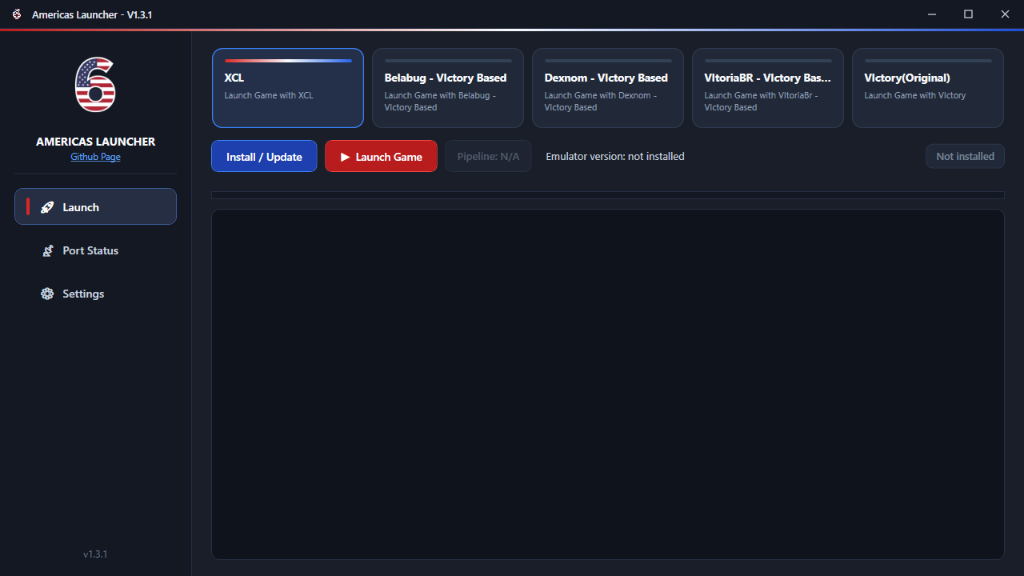
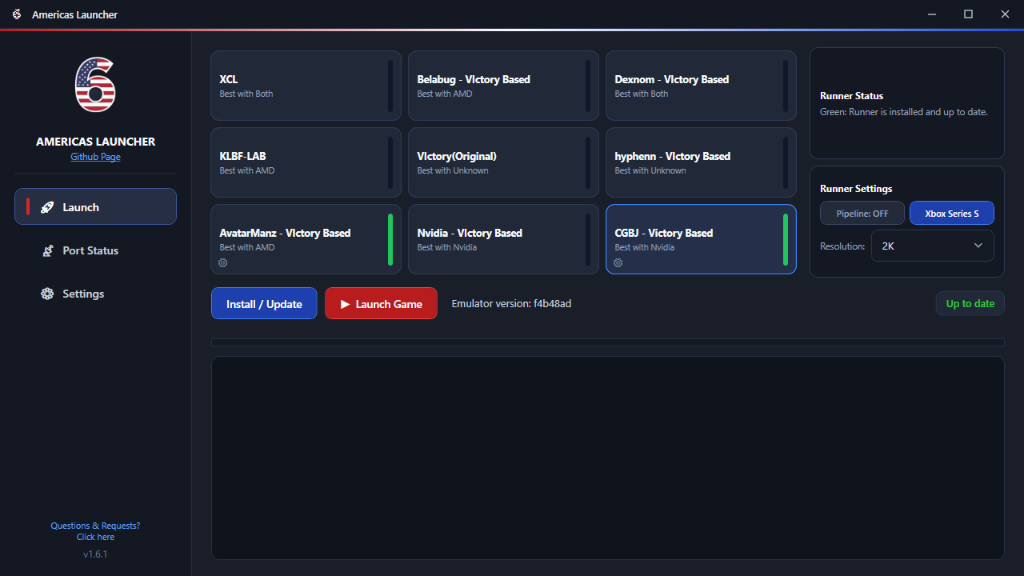
Update launch-view screenshot, 9-runner list, and add 8 language READMEs

diff --git a/README.hi.md b/README.hi.md
@@ -1,0 +1,43 @@
+[English](README.md) | [Türkçe](README.tr.md) | [Русский](README.ru.md) | [中文](README.zh.md) | [Español](README.es.md) | [Italiano](README.it.md) | [Polski](README.pl.md) | [Português (BR)](README.pt-BR.md) | **हिन्दी**
+
+# Americas Launcher
+
+एक आधुनिक Windows लॉन्चर जो Windows पर Xbox Series X|S (GDK) कम्पैटिबिलिटी लेयर्स को अपने आप सेटअप, अपडेट, बिल्ड और लॉन्च करता है — लाइव पोर्ट प्रोग्रेस ट्रैकिंग के साथ।
+
+> यह प्रोजेक्ट **केवल उन गेम्स के लिए है जिनके आप कानूनी मालिक हैं**, जो आपके अपने PC पर निकाले गए हैं। Americas Launcher कोई भी गेम, कीज़ या कंसोल SDK फ़ाइलें **शामिल, डाउनलोड या वितरित नहीं** करता है।
+
+![Americas Launcher - Launch View](docs/images/launch-view.png)
+
+## मुख्य विशेषताएँ
+
+- **आधुनिक 720p UI:** 9 चयन करने योग्य रनर कार्ड के साथ डार्क इंटरफ़ेस।
+- **एक-क्लिक इंस्टॉल / अपडेट:** `winget` (Git, Visual Studio C++ Build Tools, Rust) के ज़रिए निर्भरताएँ जाँचता और इंस्टॉल करता है, और रनर को लोकली बिल्ड करता है।
+- **एकीकृत कंसोल आउटपुट:** रनर आउटपुट और शेडर/पाइपलाइन संकलन लॉग सीधे लॉन्चर में दिखते हैं।
+- **Stop Game:** लॉन्च बटन **Stop Game** में बदल जाता है ताकि आप कभी भी गेम या संकलन रोक सकें।
+- **प्रति-रनर सेटिंग्स:** प्रत्येक रनर के लिए अलग **Pipeline**, **Xbox Series X/S**, और **रिज़ॉल्यूशन** (`540p`, `720p`, `1080p`, `2K`, `4K`) विकल्प।
+- **लाइव पोर्ट स्थिति:** [Portwatch VI](https://portwatch-vi.xyz/) द्वारा लाइव प्रोग्रेस ट्रैकिंग।
+
+## समर्थित रनर
+
+| रनर | आधारित | किसके लिए बेहतर | रिपॉजिटरी |
+|---|---|---|---|
+| **XCL** | स्वतंत्र Xbox Series कम्पैटिबिलिटी लेयर | Both | [xcl-dev/xcl](https://github.com/xcl-dev/xcl) |
+| **Belabug - VIctory Based** | VIctory फ़ॉर्क | AMD | [Belobug/VIctory-Belobug-AMD](https://github.com/Belobug/VIctory-Belobug-AMD) |
+| **Dexnom - VIctory Based** | VIctory फ़ॉर्क | Both | [DexNom/VIctory](https://github.com/DexNom/VIctory) |
+| **KLBF-LAB** | VIctory फ़ॉर्क | AMD | [PastiiJay/klbf-lab](https://github.com/PastiiJay/klbf-lab) |
+| **VIctory(Original)** | मूल VIctory कम्पैटिबिलिटी लेयर | Unknown | [Marvisak/VIctory](https://github.com/Marvisak/VIctory) |
+| **hyphenn - VIctory Based** | VIctory फ़ॉर्क | Unknown | [fxceless/victory-fork](https://github.com/fxceless/victory-fork) |
+| **AvatarManz - VIctory Based** | VIctory फ़ॉर्क | AMD | [avatarmanz/VIctory-7900XTX](https://github.com/avatarmanz/VIctory-7900XTX) |
+| **Nvidia - VIctory Based** | VIctory फ़ॉर्क (AvatarManz पर आधारित) | Nvidia | [trustno1-coder/VIctory-NVIDIA](https://github.com/trustno1-coder/VIctory-NVIDIA) |
+| **CGBJ - Victory Based** | VIctory फ़ॉर्क | Nvidia | [DoubleGhosty/cool_fox](https://github.com/DoubleGhosty/cool_fox) |
+
+## उपयोग
+
+1. **Settings** खोलें और **Game Folder** तथा **Game Executable** (`Game.exe`) चुनें।
+2. **Launch** टैब पर जाएँ और अपना रनर चुनें।
+3. निर्भरताएँ इंस्टॉल करने और बिल्ड करने के लिए **Install / Update** पर क्लिक करें।
+4. **Launch Game** पर क्लिक करें।
+
+## लाइसेंस
+
+[GNU GPL v2](LICENSE) (`GPL-2.0-only`).

diff --git a/README.ru.md b/README.ru.md
@@ -1,0 +1,43 @@
+[English](README.md) | [Türkçe](README.tr.md) | **Русский** | [中文](README.zh.md) | [Español](README.es.md) | [Italiano](README.it.md) | [Polski](README.pl.md) | [Português (BR)](README.pt-BR.md) | [हिन्दी](README.hi.md)
+
+# Americas Launcher
+
+Современный лаунчер для Windows, который автоматически устанавливает, обновляет, собирает и запускает слои совместимости Xbox Series X|S (GDK) на Windows — со встроенным отслеживанием прогресса порта в реальном времени.
+
+> Этот проект предназначен **только для игр, которыми вы владеете на законных основаниях**, распакованных на вашем ПК. Americas Launcher **не** включает, не скачивает и не распространяет игры, ключи или файлы SDK консоли.
+
+![Americas Launcher - Launch View](docs/images/launch-view.png)
+
+## Возможности
+
+- **Современный интерфейс 720p:** Тёмный интерфейс с 9 выбираемыми карточками раннеров.
+- **Установка и обновление в один клик:** Автоматическая проверка зависимостей через `winget` (Git, Visual Studio C++ Build Tools, Rust), клонирование и локальная сборка раннеров.
+- **Встроенная консоль:** Вывод раннера и логи компиляции шейдеров/пайплайнов отображаются прямо в окне лаунчера.
+- **Stop Game:** Кнопка запуска превращается в **Stop Game**, позволяя остановить игру или процесс компиляции в любой момент.
+- **Настройки раннера:** Отдельные настройки **Pipeline**, **Xbox Series X/S** и **Разрешения** (`540p`, `720p`, `1080p`, `2K`, `4K`) для каждого раннера.
+- **Статус порта:** Отслеживание прогресса в реальном времени через [Portwatch VI](https://portwatch-vi.xyz/).
+
+## Поддерживаемые раннеры
+
+| Раннер | Основа | Лучше для | Репозиторий |
+|---|---|---|---|
+| **XCL** | Независимый слой совместимости Xbox Series | Both | [xcl-dev/xcl](https://github.com/xcl-dev/xcl) |
+| **Belabug - VIctory Based** | Форк VIctory | AMD | [Belobug/VIctory-Belobug-AMD](https://github.com/Belobug/VIctory-Belobug-AMD) |
+| **Dexnom - VIctory Based** | Форк VIctory | Both | [DexNom/VIctory](https://github.com/DexNom/VIctory) |
+| **KLBF-LAB** | Форк VIctory | AMD | [PastiiJay/klbf-lab](https://github.com/PastiiJay/klbf-lab) |
+| **VIctory(Original)** | Оригинальный слой совместимости VIctory | Unknown | [Marvisak/VIctory](https://github.com/Marvisak/VIctory) |
+| **hyphenn - VIctory Based** | Форк VIctory | Unknown | [fxceless/victory-fork](https://github.com/fxceless/victory-fork) |
+| **AvatarManz - VIctory Based** | Форк VIctory | AMD | [avatarmanz/VIctory-7900XTX](https://github.com/avatarmanz/VIctory-7900XTX) |
+| **Nvidia - VIctory Based** | Форк VIctory (на базе AvatarManz) | Nvidia | [trustno1-coder/VIctory-NVIDIA](https://github.com/trustno1-coder/VIctory-NVIDIA) |
+| **CGBJ - Victory Based** | Форк VIctory | Nvidia | [DoubleGhosty/cool_fox](https://github.com/DoubleGhosty/cool_fox) |
+
+## Использование
+
+1. Откройте **Settings** и выберите **Game Folder** и **Game Executable** (`Game.exe`).
+2. Перейдите во вкладку **Launch** и выберите нужный раннер.
+3. Нажмите **Install / Update** для установки зависимостей и сборки.
+4. Нажмите **Launch Game**.
+
+## Лицензия
+
+[GNU GPL v2](LICENSE) (`GPL-2.0-only`).

diff --git a/README.tr.md b/README.tr.md
@@ -1,0 +1,45 @@
+[English](README.md) | **Türkçe** | [Русский](README.ru.md) | [中文](README.zh.md) | [Español](README.es.md) | [Italiano](README.it.md) | [Polski](README.pl.md) | [Português (BR)](README.pt-BR.md) | [हिन्दी](README.hi.md)
+
+# Americas Launcher
+
+Windows üzerinde Xbox Series X|S (GDK) uyumluluk katmanlarını otomatik olarak kuran, güncelleyen, derleyen ve başlatan modern bir Windows başlatıcısıdır — dahili canlı port ilerleme takibi içerir.
+
+> Bu proje **yalnızca yasal olarak sahip olduğunuz**, kendi PC'nize çıkarılmış oyunlar içindir. Americas Launcher oyun, anahtar veya konsol SDK dosyalarını **içermez, indirmez veya dağıtmaz**.
+
+![Americas Launcher - Launch View](docs/images/launch-view.png)
+
+## Özellikler
+
+- **Modern 720p Arayüz:** Özel pencere kontrollerine ve 9 seçilebilir runner kartına sahip koyu lacivert & patriot temalı arayüz.
+- **Tek Tıkla Kurulum / Güncelleme:**
+  - Eksik bağımlılıkları `winget` üzerinden otomatik kontrol edip kurar (Git, Visual Studio C++ Build Tools, Rust).
+  - Her runner'ın kaynak reposunu `git` ile klonlar, günceller ve yerel olarak derler.
+- **Entegre Konsol Çıktısı:** Runner çıktıları ve ön-başlatma shader/pipeline derleme logları doğrudan launcher içindeki log kutusuna akar.
+- **Stop Game:** Başlat butonuna bastıktan sonra buton **Stop Game**'e dönüşür; pipeline derlemesi sırasında bile tıklayarak işlemi ve arka plandaki runner sürecini durdurabilirsiniz.
+- **Runner Ayarları:** Her runner için ayrı **Pipeline**, **Xbox Series X/S** ve **Çözünürlük** (`540p`, `720p`, `1080p`, `2K`, `4K`) ayarları.
+- **Canlı Port Durumu:** [Portwatch VI](https://portwatch-vi.xyz/) üzerinden canlı ilerleme takibi.
+
+## Desteklenen Runnerlar
+
+| Runner | Taban | En İyi GPU | Repo |
+|---|---|---|---|
+| **XCL** | Bağımsız Xbox Series uyumluluk katmanı | Both | [xcl-dev/xcl](https://github.com/xcl-dev/xcl) |
+| **Belabug - VIctory Based** | VIctory fork | AMD | [Belobug/VIctory-Belobug-AMD](https://github.com/Belobug/VIctory-Belobug-AMD) |
+| **Dexnom - VIctory Based** | VIctory fork | Both | [DexNom/VIctory](https://github.com/DexNom/VIctory) |
+| **KLBF-LAB** | VIctory fork | AMD | [PastiiJay/klbf-lab](https://github.com/PastiiJay/klbf-lab) |
+| **VIctory(Original)** | Orijinal VIctory uyumluluk katmanı | Unknown | [Marvisak/VIctory](https://github.com/Marvisak/VIctory) |
+| **hyphenn - VIctory Based** | VIctory fork | Unknown | [fxceless/victory-fork](https://github.com/fxceless/victory-fork) |
+| **AvatarManz - VIctory Based** | VIctory fork | AMD | [avatarmanz/VIctory-7900XTX](https://github.com/avatarmanz/VIctory-7900XTX) |
+| **Nvidia - VIctory Based** | VIctory fork (AvatarManz tabanlı) | Nvidia | [trustno1-coder/VIctory-NVIDIA](https://github.com/trustno1-coder/VIctory-NVIDIA) |
+| **CGBJ - Victory Based** | VIctory fork | Nvidia | [DoubleGhosty/cool_fox](https://github.com/DoubleGhosty/cool_fox) |
+
+## Kullanım
+
+1. Sol menüden **Settings**'i açın ve **Game Folder** ile **Game Executable** (`Game.exe`) yollarını seçin.
+2. **Launch** sekmesine gidin ve kullanmak istediğiniz runner kartına tıklayın.
+3. Bağımlılıkları kurmak ve runner'ı derlemek için **Install / Update** butonuna tıklayın.
+4. **Launch Game** butonuna tıklayın. *(İlk kez shader/pipeline derlemesi birkaç dakika sürebilir.)*
+
+## Lisans
+
+[GNU GPL v2](LICENSE) (`GPL-2.0-only`).

diff --git a/README.pl.md b/README.pl.md
@@ -1,0 +1,43 @@
+[English](README.md) | [Türkçe](README.tr.md) | [Русский](README.ru.md) | [中文](README.zh.md) | [Español](README.es.md) | [Italiano](README.it.md) | **Polski** | [Português (BR)](README.pt-BR.md) | [हिन्दी](README.hi.md)
+
+# Americas Launcher
+
+Nowoczesny launcher dla systemu Windows, który automatycznie konfiguruje, aktualizuje, kompiluje i uruchamia warstwy zgodności Xbox Series X|S (GDK) na Windowsie — z wbudowanym śledzeniem postępu portu na żywo.
+
+> Ten projekt jest przeznaczony **wyłącznie do gier, które legalnie posiadasz**, rozpakowanych na własnym komputerze. Americas Launcher **nie** zawiera, nie pobiera ani nie rozpowszechnia gier, kluczy ani plików SDK konsoli.
+
+![Americas Launcher - Launch View](docs/images/launch-view.png)
+
+## Funkcje
+
+- **Nowoczesny interfejs 720p:** Ciemny interfejs z 9 kartami runnerów do wyboru.
+- **Instalacja / Aktualizacja jednym kliknięciem:** Automatyczne sprawdzanie i instalacja brakujących zależności przez `winget` (Git, Visual Studio C++ Build Tools, Rust) oraz lokalna kompilacja runnerów.
+- **Zintegrowana konsola:** Wyjście runnera i logi kompilacji shaderów/pipeline są wyświetlane bezpośrednio w oknie launchera.
+- **Stop Game:** Przycisk uruchamiania zmienia się w **Stop Game**, pozwalając zatrzymać grę lub kompilację w dowolnym momencie.
+- **Ustawienia runnera:** Osobne opcje **Pipeline**, **Xbox Series X/S** oraz **Rozdzielczości** (`540p`, `720p`, `1080p`, `2K`, `4K`) dla każdego runnera.
+- **Status portu na żywo:** Śledzenie postępu przez [Portwatch VI](https://portwatch-vi.xyz/).
+
+## Obsługiwane runnery
+
+| Runner | Baza | Najlepszy dla | Repozytorium |
+|---|---|---|---|
+| **XCL** | Niezależna warstwa zgodności Xbox Series | Both | [xcl-dev/xcl](https://github.com/xcl-dev/xcl) |
+| **Belabug - VIctory Based** | Fork VIctory | AMD | [Belobug/VIctory-Belobug-AMD](https://github.com/Belobug/VIctory-Belobug-AMD) |
+| **Dexnom - VIctory Based** | Fork VIctory | Both | [DexNom/VIctory](https://github.com/DexNom/VIctory) |
+| **KLBF-LAB** | Fork VIctory | AMD | [PastiiJay/klbf-lab](https://github.com/PastiiJay/klbf-lab) |
+| **VIctory(Original)** | Oryginalna warstwa zgodności VIctory | Unknown | [Marvisak/VIctory](https://github.com/Marvisak/VIctory) |
+| **hyphenn - VIctory Based** | Fork VIctory | Unknown | [fxceless/victory-fork](https://github.com/fxceless/victory-fork) |
+| **AvatarManz - VIctory Based** | Fork VIctory | AMD | [avatarmanz/VIctory-7900XTX](https://github.com/avatarmanz/VIctory-7900XTX) |
+| **Nvidia - VIctory Based** | Fork VIctory (oparty na AvatarManz) | Nvidia | [trustno1-coder/VIctory-NVIDIA](https://github.com/trustno1-coder/VIctory-NVIDIA) |
+| **CGBJ - Victory Based** | Fork VIctory | Nvidia | [DoubleGhosty/cool_fox](https://github.com/DoubleGhosty/cool_fox) |
+
+## Użycie
+
+1. Otwórz **Settings** i wybierz **Game Folder** oraz **Game Executable** (`Game.exe`).
+2. Przejdź do **Launch** i wybierz kartę runnera.
+3. Kliknij **Install / Update**, aby zainstalować zależności i skompilować runnera.
+4. Kliknij **Launch Game**.
+
+## Licencja
+
+[GNU GPL v2](LICENSE) (`GPL-2.0-only`).

diff --git a/README.es.md b/README.es.md
@@ -1,0 +1,43 @@
+[English](README.md) | [Türkçe](README.tr.md) | [Русский](README.ru.md) | [中文](README.zh.md) | **Español** | [Italiano](README.it.md) | [Polski](README.pl.md) | [Português (BR)](README.pt-BR.md) | [हिन्दी](README.hi.md)
+
+# Americas Launcher
+
+Un lanzador moderno para Windows que configura, actualiza, compila y ejecuta automáticamente capas de compatibilidad de Xbox Series X|S (GDK) en Windows, con seguimiento en vivo del progreso del port.
+
+> Este proyecto está destinado **únicamente a juegos que poseas legalmente**, descomprimidos en tu propia PC. Americas Launcher **no** incluye, descarga ni distribuye juegos, claves ni archivos SDK de consola.
+
+![Americas Launcher - Launch View](docs/images/launch-view.png)
+
+## Características
+
+- **Interfaz moderna 720p:** Interfaz oscura con 9 tarjetas de runners seleccionables.
+- **Instalación / Actualización en un clic:** Verifica e instala dependencias faltantes con `winget` (Git, Visual Studio C++ Build Tools, Rust), clona y compila localmente cada runner.
+- **Consola integrada:** La salida del runner y los registros de compilación de shaders/pipelines se muestran directamente en el lanzador.
+- **Stop Game:** El botón de inicio cambia a **Stop Game** para detener el juego o la compilación en cualquier momento.
+- **Ajustes por runner:** Opciones individuales de **Pipeline**, **Xbox Series X/S** y **Resolución** (`540p`, `720p`, `1080p`, `2K`, `4K`).
+- **Estado del port en vivo:** Seguimiento en tiempo real con [Portwatch VI](https://portwatch-vi.xyz/).
+
+## Runners compatibles
+
+| Runner | Basado en | Mejor con | Repositorio |
+|---|---|---|---|
+| **XCL** | Capa de compatibilidad independiente Xbox Series | Both | [xcl-dev/xcl](https://github.com/xcl-dev/xcl) |
+| **Belabug - VIctory Based** | Fork de VIctory | AMD | [Belobug/VIctory-Belobug-AMD](https://github.com/Belobug/VIctory-Belobug-AMD) |
+| **Dexnom - VIctory Based** | Fork de VIctory | Both | [DexNom/VIctory](https://github.com/DexNom/VIctory) |
+| **KLBF-LAB** | Fork de VIctory | AMD | [PastiiJay/klbf-lab](https://github.com/PastiiJay/klbf-lab) |
+| **VIctory(Original)** | Capa de compatibilidad VIctory original | Unknown | [Marvisak/VIctory](https://github.com/Marvisak/VIctory) |
+| **hyphenn - VIctory Based** | Fork de VIctory | Unknown | [fxceless/victory-fork](https://github.com/fxceless/victory-fork) |
+| **AvatarManz - VIctory Based** | Fork de VIctory | AMD | [avatarmanz/VIctory-7900XTX](https://github.com/avatarmanz/VIctory-7900XTX) |
+| **Nvidia - VIctory Based** | Fork de VIctory (basado en AvatarManz) | Nvidia | [trustno1-coder/VIctory-NVIDIA](https://github.com/trustno1-coder/VIctory-NVIDIA) |
+| **CGBJ - Victory Based** | Fork de VIctory | Nvidia | [DoubleGhosty/cool_fox](https://github.com/DoubleGhosty/cool_fox) |
+
+## Uso
+
+1. Abre **Settings** y selecciona **Game Folder** y **Game Executable** (`Game.exe`).
+2. Ve a **Launch** y selecciona el runner que desees.
+3. Haz clic en **Install / Update** para instalar dependencias y compilar.
+4. Haz clic en **Launch Game**.
+
+## Licencia
+
+[GNU GPL v2](LICENSE) (`GPL-2.0-only`).

diff --git a/README.it.md b/README.it.md
@@ -1,0 +1,43 @@
+[English](README.md) | [Türkçe](README.tr.md) | [Русский](README.ru.md) | [中文](README.zh.md) | [Español](README.es.md) | **Italiano** | [Polski](README.pl.md) | [Português (BR)](README.pt-BR.md) | [हिन्दी](README.hi.md)
+
+# Americas Launcher
+
+Un launcher moderno per Windows che configura, aggiorna, compila e avvia automaticamente i livelli di compatibilità Xbox Series X|S (GDK) su Windows, con monitoraggio in tempo reale dei progressi del port.
+
+> Questo progetto è destinato **solo ai giochi che possiedi legalmente**, estratti sul tuo PC. Americas Launcher **non** include, scarica o distribuisce giochi, chiavi o file SDK della console.
+
+![Americas Launcher - Launch View](docs/images/launch-view.png)
+
+## Funzionalità
+
+- **Interfaccia moderna 720p:** Interfaccia scura con 9 schede runner selezionabili.
+- **Installazione / Aggiornamento con un clic:** Controlla e installa le dipendenze mancanti tramite `winget` (Git, Visual Studio C++ Build Tools, Rust), clona e compila localmente ogni runner.
+- **Console integrata:** L'output del runner e i log di compilazione shader/pipeline vengono mostrati direttamente nel launcher.
+- **Stop Game:** Il pulsante di avvio diventa **Stop Game** per fermare il gioco o la compilazione in qualsiasi momento.
+- **Impostazioni per runner:** Opzioni dedicate di **Pipeline**, **Xbox Series X/S** e **Risoluzione** (`540p`, `720p`, `1080p`, `2K`, `4K`) per ogni runner.
+- **Stato del port in tempo reale:** Monitoraggio tramite [Portwatch VI](https://portwatch-vi.xyz/).
+
+## Runner supportati
+
+| Runner | Basato su | Ideale per | Repository |
+|---|---|---|---|
+| **XCL** | Livello di compatibilità Xbox Series indipendente | Both | [xcl-dev/xcl](https://github.com/xcl-dev/xcl) |
+| **Belabug - VIctory Based** | Fork di VIctory | AMD | [Belobug/VIctory-Belobug-AMD](https://github.com/Belobug/VIctory-Belobug-AMD) |
+| **Dexnom - VIctory Based** | Fork di VIctory | Both | [DexNom/VIctory](https://github.com/DexNom/VIctory) |
+| **KLBF-LAB** | Fork di VIctory | AMD | [PastiiJay/klbf-lab](https://github.com/PastiiJay/klbf-lab) |
+| **VIctory(Original)** | Livello di compatibilità VIctory originale | Unknown | [Marvisak/VIctory](https://github.com/Marvisak/VIctory) |
+| **hyphenn - VIctory Based** | Fork di VIctory | Unknown | [fxceless/victory-fork](https://github.com/fxceless/victory-fork) |
+| **AvatarManz - VIctory Based** | Fork di VIctory | AMD | [avatarmanz/VIctory-7900XTX](https://github.com/avatarmanz/VIctory-7900XTX) |
+| **Nvidia - VIctory Based** | Fork di VIctory (basato su AvatarManz) | Nvidia | [trustno1-coder/VIctory-NVIDIA](https://github.com/trustno1-coder/VIctory-NVIDIA) |
+| **CGBJ - Victory Based** | Fork di VIctory | Nvidia | [DoubleGhosty/cool_fox](https://github.com/DoubleGhosty/cool_fox) |
+
+## Utilizzo
+
+1. Apri **Settings** e seleziona **Game Folder** e **Game Executable** (`Game.exe`).
+2. Vai su **Launch** e seleziona il runner desiderato.
+3. Clicca su **Install / Update** per installare le dipendenze e compilare.
+4. Clicca su **Launch Game**.
+
+## Licenza
+
+[GNU GPL v2](LICENSE) (`GPL-2.0-only`).

diff --git a/README.md b/README.md
@@ -1,3 +1,5 @@
+**English** | [Türkçe](README.tr.md) | [Русский](README.ru.md) | [中文](README.zh.md) | [Español](README.es.md) | [Italiano](README.it.md) | [Polski](README.pl.md) | [Português (BR)](README.pt-BR.md) | [हिन्दी](README.hi.md)
+
 # Americas Launcher
 
 A modern Windows launcher that automatically sets up, updates, builds, and launches Xbox Series X|S (GDK) compatibility layers on Windows — with live port progress tracking built in.
@@ -8,7 +10,7 @@ A modern Windows launcher that automatically sets up, updates, builds, and launc
 
 ## Features
 
-- **Modern 720p UI:** Clean dark navy & patriot-themed interface with custom window controls and 8 selectable runner cards.
+- **Modern 720p UI:** Clean dark navy & patriot-themed interface with custom window controls and 9 selectable runner cards.
 - **One-Click Install / Update:**
   - Automatically checks and installs missing dependencies via `winget` (Git, Visual Studio C++ Build Tools, Rust).
   - Clones and updates each runner's source repository with `git`, then compiles it locally.
@@ -25,18 +27,19 @@ A modern Windows launcher that automatically sets up, updates, builds, and launc
 
 ## Supported Runners
 
-Runners are configured in [`src/AmericasLauncher/Data/runners.json`](src/AmericasLauncher/Data/runners.json). Click any of the 8 runner cards on the **Launch** screen to switch between them. The "Best with" column is the hint shown on each card.
+Runners are configured in [`src/AmericasLauncher/Data/runners.json`](src/AmericasLauncher/Data/runners.json). Click any of the 9 runner cards on the **Launch** screen to switch between them. The "Best with" column is the hint shown on each card.
 
 | Runner | Based On | Best with | Repository |
 |---|---|---|---|
 | **XCL** | Independent Xbox Series compatibility layer | Both | [xcl-dev/xcl](https://github.com/xcl-dev/xcl) |
 | **Belabug - VIctory Based** | VIctory fork | AMD | [Belobug/VIctory-Belobug-AMD](https://github.com/Belobug/VIctory-Belobug-AMD) |
 | **Dexnom - VIctory Based** | VIctory fork | Both | [DexNom/VIctory](https://github.com/DexNom/VIctory) |
-| **VItoriaBR - VIctory Based** | VIctory fork | Both | [uiliannn/VItoriaBr](https://github.com/uiliannn/VItoriaBr) |
+| **KLBF-LAB** | VIctory fork | AMD | [PastiiJay/klbf-lab](https://github.com/PastiiJay/klbf-lab) |
 | **VIctory(Original)** | Original VIctory compatibility layer | Unknown | [Marvisak/VIctory](https://github.com/Marvisak/VIctory) |
 | **hyphenn - VIctory Based** | VIctory fork | Unknown | [fxceless/victory-fork](https://github.com/fxceless/victory-fork) |
 | **AvatarManz - VIctory Based** | VIctory fork | AMD | [avatarmanz/VIctory-7900XTX](https://github.com/avatarmanz/VIctory-7900XTX) |
 | **Nvidia - VIctory Based** | VIctory fork (based on AvatarManz) | Nvidia | [trustno1-coder/VIctory-NVIDIA](https://github.com/trustno1-coder/VIctory-NVIDIA) |
+| **CGBJ - Victory Based** | VIctory fork | Nvidia | [DoubleGhosty/cool_fox](https://github.com/DoubleGhosty/cool_fox) |
 
 Runners are third-party projects that the launcher builds from source on your PC. Review a runner's code before you run it.
 

diff --git a/README.pt-BR.md b/README.pt-BR.md
@@ -1,0 +1,43 @@
+[English](README.md) | [Türkçe](README.tr.md) | [Русский](README.ru.md) | [中文](README.zh.md) | [Español](README.es.md) | [Italiano](README.it.md) | [Polski](README.pl.md) | **Português (BR)** | [हिन्दी](README.hi.md)
+
+# Americas Launcher
+
+Um launcher moderno para Windows que configura, atualiza, compila e executa automaticamente camadas de compatibilidade do Xbox Series X|S (GDK) no Windows — com acompanhamento ao vivo do progresso do port.
+
+> Este projeto destina-se **apenas a jogos que você possui legalmente**, extraídos no seu próprio PC. O Americas Launcher **não** inclui, baixa ou distribui jogos, chaves ou arquivos SDK de console.
+
+![Americas Launcher - Launch View](docs/images/launch-view.png)
+
+## Recursos
+
+- **Interface moderna 720p:** Visual escuro com 9 cartões de runners selecionáveis.
+- **Instalação / Atualização em um clique:** Verifica e instala dependências via `winget` (Git, Visual Studio C++ Build Tools, Rust), clona e compila localmente cada runner.
+- **Console integrado:** A saída do runner e os logs de compilação de shaders/pipelines aparecem diretamente no launcher.
+- **Stop Game:** O botão de iniciar vira **Stop Game** para encerrar o jogo ou a compilação a qualquer momento.
+- **Configurações por runner:** Opções individuais de **Pipeline**, **Xbox Series X/S** e **Resolução** (`540p`, `720p`, `1080p`, `2K`, `4K`).
+- **Status do port ao vivo:** Acompanhamento em tempo real pelo [Portwatch VI](https://portwatch-vi.xyz/).
+
+## Runners suportados
+
+| Runner | Baseado em | Melhor com | Repositório |
+|---|---|---|---|
+| **XCL** | Camada de compatibilidade Xbox Series independente | Both | [xcl-dev/xcl](https://github.com/xcl-dev/xcl) |
+| **Belabug - VIctory Based** | Fork do VIctory | AMD | [Belobug/VIctory-Belobug-AMD](https://github.com/Belobug/VIctory-Belobug-AMD) |
+| **Dexnom - VIctory Based** | Fork do VIctory | Both | [DexNom/VIctory](https://github.com/DexNom/VIctory) |
+| **KLBF-LAB** | Fork do VIctory | AMD | [PastiiJay/klbf-lab](https://github.com/PastiiJay/klbf-lab) |
+| **VIctory(Original)** | Camada de compatibilidade VIctory original | Unknown | [Marvisak/VIctory](https://github.com/Marvisak/VIctory) |
+| **hyphenn - VIctory Based** | Fork do VIctory | Unknown | [fxceless/victory-fork](https://github.com/fxceless/victory-fork) |
+| **AvatarManz - VIctory Based** | Fork do VIctory | AMD | [avatarmanz/VIctory-7900XTX](https://github.com/avatarmanz/VIctory-7900XTX) |
+| **Nvidia - VIctory Based** | Fork do VIctory (baseado no AvatarManz) | Nvidia | [trustno1-coder/VIctory-NVIDIA](https://github.com/trustno1-coder/VIctory-NVIDIA) |
+| **CGBJ - Victory Based** | Fork do VIctory | Nvidia | [DoubleGhosty/cool_fox](https://github.com/DoubleGhosty/cool_fox) |
+
+## Como usar
+
+1. Abra **Settings** e selecione **Game Folder** e **Game Executable** (`Game.exe`).
+2. Vá para **Launch** e clique no runner desejado.
+3. Clique em **Install / Update** para instalar as dependências e compilar.
+4. Clique em **Launch Game**.
+
+## Licença
+
+[GNU GPL v2](LICENSE) (`GPL-2.0-only`).

diff --git a/README.zh.md b/README.zh.md
@@ -1,0 +1,43 @@
+[English](README.md) | [Türkçe](README.tr.md) | [Русский](README.ru.md) | **中文** | [Español](README.es.md) | [Italiano](README.it.md) | [Polski](README.pl.md) | [Português (BR)](README.pt-BR.md) | [हिन्दी](README.hi.md)
+
+# Americas Launcher
+
+一个现代化的 Windows 启动器，可在 Windows 上自动配置、更新、编译和启动 Xbox Series X|S (GDK) 兼容层，并内置实时移植进度追踪功能。
+
+> 本项目**仅适用于您合法拥有**且已解压到自己电脑上的游戏。Americas Launcher **不**包含、下载或分发任何游戏、密钥或主机 SDK 文件。
+
+![Americas Launcher - Launch View](docs/images/launch-view.png)
+
+## 功能特性
+
+- **现代 720p 界面：** 深色界面，支持 9 个可选 Runner 卡片。
+- **一键安装 / 更新：** 通过 `winget` 自动检查并安装缺失的依赖（Git、Visual Studio C++ Build Tools、Rust），克隆并本地编译各个 Runner。
+- **集成控制台输出：** Runner 输出和启动前着色器/管线编译日志直接显示在启动器日志框中。
+- **Stop Game：** 点击启动后按钮变为 **Stop Game**，可随时停止游戏或管线编译进程。
+- **Runner 设置：** 为每个 Runner 单独配置 **Pipeline**、**Xbox Series X/S** 和 **分辨率**（`540p`、`720p`、`1080p`、`2K`、`4K`）。
+- **实时移植状态：** 由 [Portwatch VI](https://portwatch-vi.xyz/) 提供实时进度追踪。
+
+## 支持的 Runner
+
+| Runner | 基于 | 最佳适配 | 仓库 |
+|---|---|---|---|
+| **XCL** | 独立 Xbox Series 兼容层 | Both | [xcl-dev/xcl](https://github.com/xcl-dev/xcl) |
+| **Belabug - VIctory Based** | VIctory 分支 | AMD | [Belobug/VIctory-Belobug-AMD](https://github.com/Belobug/VIctory-Belobug-AMD) |
+| **Dexnom - VIctory Based** | VIctory 分支 | Both | [DexNom/VIctory](https://github.com/DexNom/VIctory) |
+| **KLBF-LAB** | VIctory 分支 | AMD | [PastiiJay/klbf-lab](https://github.com/PastiiJay/klbf-lab) |
+| **VIctory(Original)** | 原版 VIctory 兼容层 | Unknown | [Marvisak/VIctory](https://github.com/Marvisak/VIctory) |
+| **hyphenn - VIctory Based** | VIctory 分支 | Unknown | [fxceless/victory-fork](https://github.com/fxceless/victory-fork) |
+| **AvatarManz - VIctory Based** | VIctory 分支 | AMD | [avatarmanz/VIctory-7900XTX](https://github.com/avatarmanz/VIctory-7900XTX) |
+| **Nvidia - VIctory Based** | VIctory 分支（基于 AvatarManz） | Nvidia | [trustno1-coder/VIctory-NVIDIA](https://github.com/trustno1-coder/VIctory-NVIDIA) |
+| **CGBJ - Victory Based** | VIctory 分支 | Nvidia | [DoubleGhosty/cool_fox](https://github.com/DoubleGhosty/cool_fox) |
+
+## 使用方法
+
+1. 打开 **Settings**，选择 **Game Folder** 和 **Game Executable** (`Game.exe`)。
+2. 转到 **Launch** 页面并点击想要使用的 Runner 卡片。
+3. 点击 **Install / Update** 安装依赖并编译 Runner。
+4. 点击 **Launch Game** 启动游戏。
+
+## 许可证
+
+[GNU GPL v2](LICENSE) (`GPL-2.0-only`).
